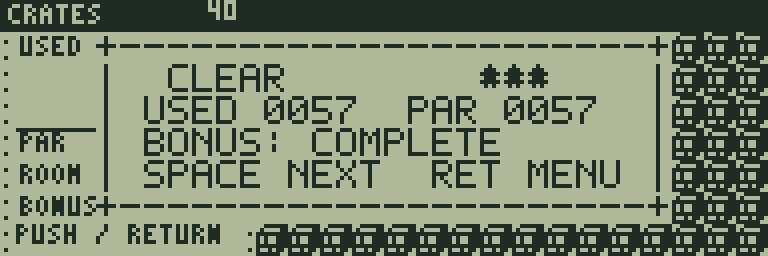
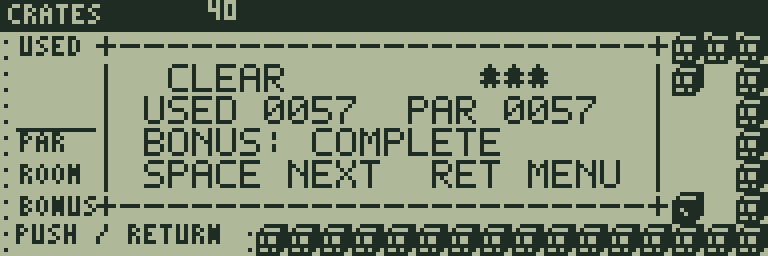
feat: Expand later BOX SHIFT warehouses across the playfield

Changed region(s): [[0.875, 0.25, 0.9688, 0.875]]

diff --git a/games/box-shift/design.py b/games/box-shift/design.py
@@ -80,14 +80,24 @@ def replay(floor,goals,p,boxes,path,marks=()):
     assert boxes==goals
     return visited,pushes,mask
 
-def room(rng,index):
-    floor={y*16+x for y in range(1,6) for x in range(1,10)}
+def warehouse_width(index):
+    return 9 if index<10 else 12 if index<20 else 14
+
+def room(rng,index,width=9):
+    floor={y*16+x for y in range(1,6) for x in range(1,width+1)}
     # Bays, central piers and staggered doors create distinct push-order constraints.
     patterns=[{(4,2),(4,3),(7,3),(7,4)},
               {(5,y) for y in (1,2,4,5)},
               {(3,2),(3,3),(6,3),(6,4)},
               {(x,3) for x in (2,3,6,7,8)},
               {(3,2),(7,2),(3,4),(7,4)}]
+    if width>9:
+        mid=width//2
+        patterns=[{(4,2),(4,3),(width-3,3),(width-3,4)},
+                  {(mid,y) for y in (1,2,4,5)},
+                  {(4,2),(4,3),(mid+1,3),(mid+1,4),(width-2,2)},
+                  {(x,3) for x in (2,3,mid-1,mid,mid+1,width-2)},
+                  {(4,2),(width-3,2),(4,4),(width-3,4)}]
     floor-={y*16+x for x,y in patterns[index%len(patterns)]}
     for p in rng.sample(sorted(floor),rng.randint(2,6)):floor.remove(p)
     parts=[];unseen=set(floor)
@@ -102,12 +112,18 @@ def room(rng,index):
 def run():
     rng=random.Random(803105);stages=[];seen=set()
     for i in range(40):
+        width=warehouse_width(i)
+        search_scale=1 if width==9 else 4
+        # Each expanded warehouse has its own reproducible authoring seed.
+        if i>=10:rng=random.Random(803105+i*7919)
         count=2 if i<12 else 3 if i<32 else 4
         low=8+i
         for attempt in range(12000):
-            floor=room(rng,i+attempt%5)
-            if len(floor)<29:continue
+            floor=room(rng,i+attempt%5,width)
+            if len(floor)<29+(width-9)*3:continue
+            if {p%16 for p in floor}!=set(range(1,width+1)):continue
             goals=set(rng.sample(sorted(floor),count));boxes=set(goals);player=rng.choice(sorted(floor-boxes))
+            if width>9 and not any(p%16>=width-1 for p in goals):continue
             for _ in range(220+i*9):
                 options=[d for d,_ in D if player+d in floor-boxes]
                 if not options:break
@@ -115,16 +131,18 @@ def run():
                 if player-d in boxes:boxes.remove(player-d);boxes.add(player)
                 player+=d
             if len(boxes-goals)<2:continue
-            normal,work=solve(floor,goals,player,boxes,limit=18000)
+            if width>9 and not any(p%16>=width-1 for p in goals-boxes):continue
+            normal,work=solve(floor,goals,player,boxes,limit=18000*search_scale)
             if not normal or not low<=len(normal)<=140:continue
             visited,pushes,_=replay(floor,goals,player,boxes,normal)
             if pushes<3+i//4:continue
+            if width>9 and max(p%16 for p in visited)<width-1:continue
             signature=(tuple(sorted(floor)),tuple(sorted(goals)),player,tuple(sorted(boxes)))
             if signature in seen:continue
             free=sorted(floor-set(boxes)-goals-visited)
             if len(free)<2:continue
             for _ in range(6):
-                marks=rng.sample(free,2);bonus,bonus_work=solve(floor,goals,player,boxes,marks,limit=35000)
+                marks=rng.sample(free,2);bonus,bonus_work=solve(floor,goals,player,boxes,marks,limit=35000*search_scale)
                 if bonus and len(normal)+2<=len(bonus)<=180:break
             else:continue
             _,bonus_pushes,mask=replay(floor,goals,player,boxes,bonus,marks);assert mask==3
@@ -132,7 +150,7 @@ def run():
             for p in boxes:board[p]|=4
             stages.append({'initial':{'start':player,'board':board},'normal':normal,'bonus':bonus,
                            'bonus_cells':marks,'par':len(bonus),'metrics':{'minimum_actions':len(normal),'bonus_minimum_actions':len(bonus),'boxes':count,'solution_pushes':pushes,'bonus_pushes':bonus_pushes,'search_states':work,'bonus_search_states':bonus_work}})
-            seen.add(signature);print(f'box {i+1:02}: {len(normal)}/{len(bonus)} actions, {pushes} pushes',flush=True);break
+            seen.add(signature);print(f'box {i+1:02}: {width}x5, {len(normal)}/{len(bonus)} actions, {pushes} pushes',flush=True);break
         else:raise RuntimeError(f'No qualified warehouse {i+1}')
     save(__file__,stages)
 
